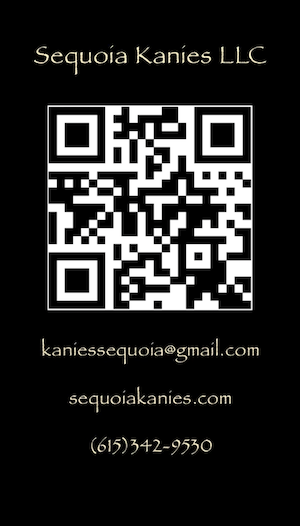
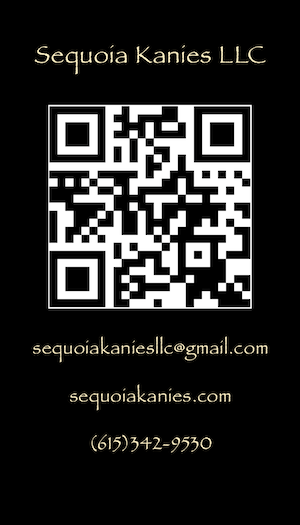
fix business card back, email change to sequoiakaniesllc@gmail.com, move business card to contact page, add portfolio heading

diff --git a/contact-us/contact-us.html b/contact-us/contact-us.html
@@ -5,7 +5,7 @@
 <head>
     <meta charset="UTF-8">
     <meta name="viewport" content="width=device-width, initial-scale=1.0">
-    <title>Sequoia Kanies LLC</title>
+    <title>Contact - Sequoia Kanies LLC</title>
     <link rel="icon" type="image/svg+xml" href="https://sequoia-portfolio.s3.amazonaws.com/favicon.ico" />
     <link href="https://fonts.googleapis.com/css2?family=Russo+One&display=swap" rel="stylesheet">
     <link href="https://fonts.googleapis.com/css2?family=Roboto+Mono:wght@500&family=Roboto:wght@500&family=Russo+One&display=swap" rel="stylesheet">
@@ -22,7 +22,7 @@
     
         <div id="menu-dropdown" class="menu-dropdown">
           <ul class="menu-list">
-            <li><a target="_blank" href="../index.html">About</a></li>
+            <li><a target="_blank" href="../index.html">Home</a></li>
             <!-- <li><a target="_blank" href="../skllc/skllc.html">Sequoia Kanies LLC</a></li> -->
           </ul>
         </div>
@@ -34,10 +34,11 @@
     <section class="s2">
         <div class="main-container">
             <h3 id="contact" style="text-align: center;">Get In Touch</h3>
-            
+            <a style="color: blue" target="blank" href="https://maps.app.goo.gl/qr1gXXzWVCUjLDSU9?g_st=ic">See Ringgold, GA on Google Maps</a>
+            <p>Phone: <a style="color: blue" href="tel:6153429530">(615)342-9530</a></p>
+            <p>Email: sequoiakaniesllc@gmail.com</p>
             <form style="text-align: center;" id="about-wrapper">
-                
-                <a class="contact-button" href="mailto:kaniessequoia@gmail.com"> Contact </a>
+                <a class="contact-button" href="mailto:sequoiakaniesllc@gmail.com"> Email Me </a>
             </form>
         </div>
     </section>
@@ -54,6 +55,26 @@
         </div>
     </section>
 
+    <section class="s1">
+        <div class="social-links" style="line-height: 27px;">
+            <br/>
+            <h3>Links</h3>
+            <a target="_blank" href="resume.pdf">Software Engineering Resume</a>
+            <a target="_blank" href="https://github.com/ScrumMasterSequoia/">GitHub</a>
+            <a target="_blank" href="https://www.linkedin.com/in/sequoia-kanies-a402a228a/">LinkedIn</a>
+            <a target="_blank" href="https://github.com/ScrumMasterSequoia/PredictiveStockAnalyzer">UTC Senior Capstone</a>
+            <a target="_blank" href="https://www.cdtechies.com/">CD Techies</a>
+            <a target="_blank" href="https://www.youtube.com/@sequoiakanies2202/featured">YouTube</a>
+            <a target="_blank" href="https://www.instagram.com/sequoiakanies/">Personal Instagram</a>
+            <a target="_blank" href="https://www.instagram.com/sequoiatreesart/">Art Instagram</a>
+            <a target="_blank" href="https://www.tiktok.com/@sequoiatreesart">Art Tiktok</a>
+            <a target="_blank" href="https://www.facebook.com/BizzareArtBazzar/">Art Facebook</a>
+            <a target="_blank" href="https://opensea.io/SequoiaTrees">OpenSea</a>
+        </div>
+        
+        <br />
+        <br />
+    </section>
     
     <script type="text/javascript" src="contact-us.js"></script>
 </body>

diff --git a/index.html b/index.html
@@ -63,7 +63,7 @@ https://www.upwork.com/resources/must-have-website-features
           <ul class="menu-list">
             <li><a href="#">Top</a></li>
             <li><a href="#skllc">Sequoia Kanies LLC</a></li>
-            <li><a href="./contact-us/contact-us.html">Contact</a></li>
+            <li><a target="_blank" href="./contact-us/contact-us.html">Contact</a></li>
             <li><a href="#freelance">Freelance</a></li>
             <li><a href="#professional">Professional</a></li>
             <li><a href="#opensource">Open Source</a></li>
@@ -99,7 +99,7 @@ https://www.upwork.com/resources/must-have-website-features
         </div>
     </section>
 
-    <section id="skllc" class="s1">
+    <!-- <section id="skllc" class="s1">
             <div class="main-container" style="text-align: center;">
                 <div class="business-card-container">
                     <h3 style="margin-bottom: 10px;">Sequoia Kanies LLC</h3>
@@ -110,7 +110,7 @@ https://www.upwork.com/resources/must-have-website-features
                         <u><b>Download Resume</b></u></a>
                     </div>
             </div>
-    </section>
+    </section> -->
 
     <section class="s2">
         <div class="main-container">
@@ -158,7 +158,11 @@ https://www.upwork.com/resources/must-have-website-features
     <!-- Possibly add descriptions to each project which talk about what technologies were used and what lessons were learned -->
     <!-- Add American Vikings link somewhere -->
     
+
+
     <section class="s1">
+        <header><h1 style="color: white; text-align: center;"><i><u>Portfolio</u></i></h1></header>
+
         <div class="main-container">
 
             <h3 id="freelance" style="text-align: center;">Freelance Platforms</h3>
@@ -558,7 +562,7 @@ https://www.upwork.com/resources/must-have-website-features
         </div>
     </section> -->
 
-    <section class="s2">
+    <!-- <section class="s2">
         <div class="main-container">
             <h3 id="contact" style="text-align: center;">Get In Touch</h3>
             
@@ -567,9 +571,9 @@ https://www.upwork.com/resources/must-have-website-features
                 <a class="contact-button" href="mailto:kaniessequoia@gmail.com"> Contact </a>
             </form>
         </div>
-    </section>
+    </section> -->
 
-    <section class="s1">
+<section class="s1">
     <div class="social-links" style="line-height: 27px;">
         <br/>
         <h3>Links</h3>

diff --git a/contact-us/contact-us.css b/contact-us/contact-us.css
@@ -220,3 +220,8 @@ align-content: center;
     -moz-box-shadow: 2px 2px 5px 0px rgba(0,0,0,0.75);
     box-shadow: 2px 2px 5px 0px rgba(0,0,0,0.75);
 }
+.social-links{
+	display: grid;
+	align-content: space-between;
+	text-align: center;
+}
